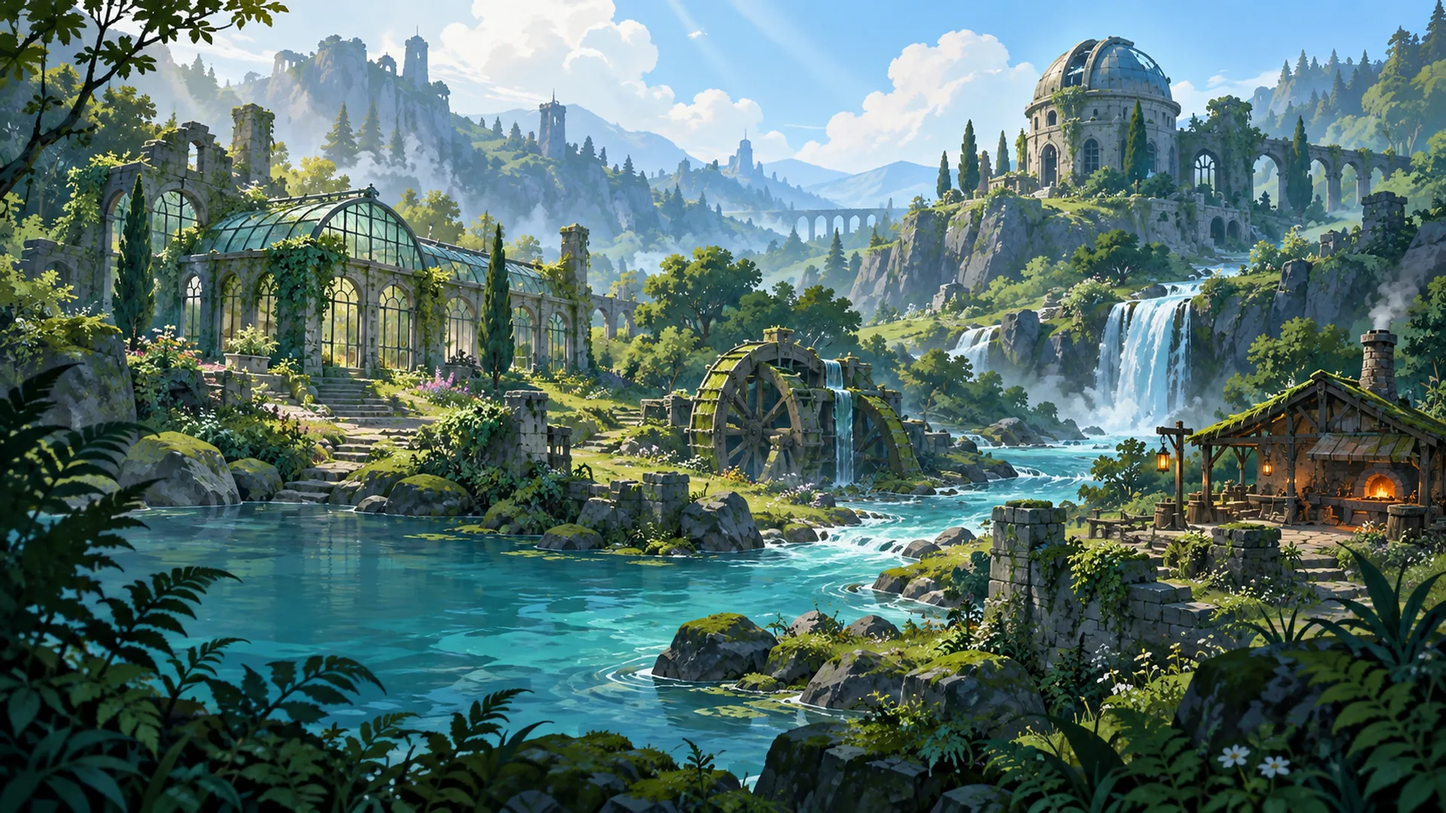
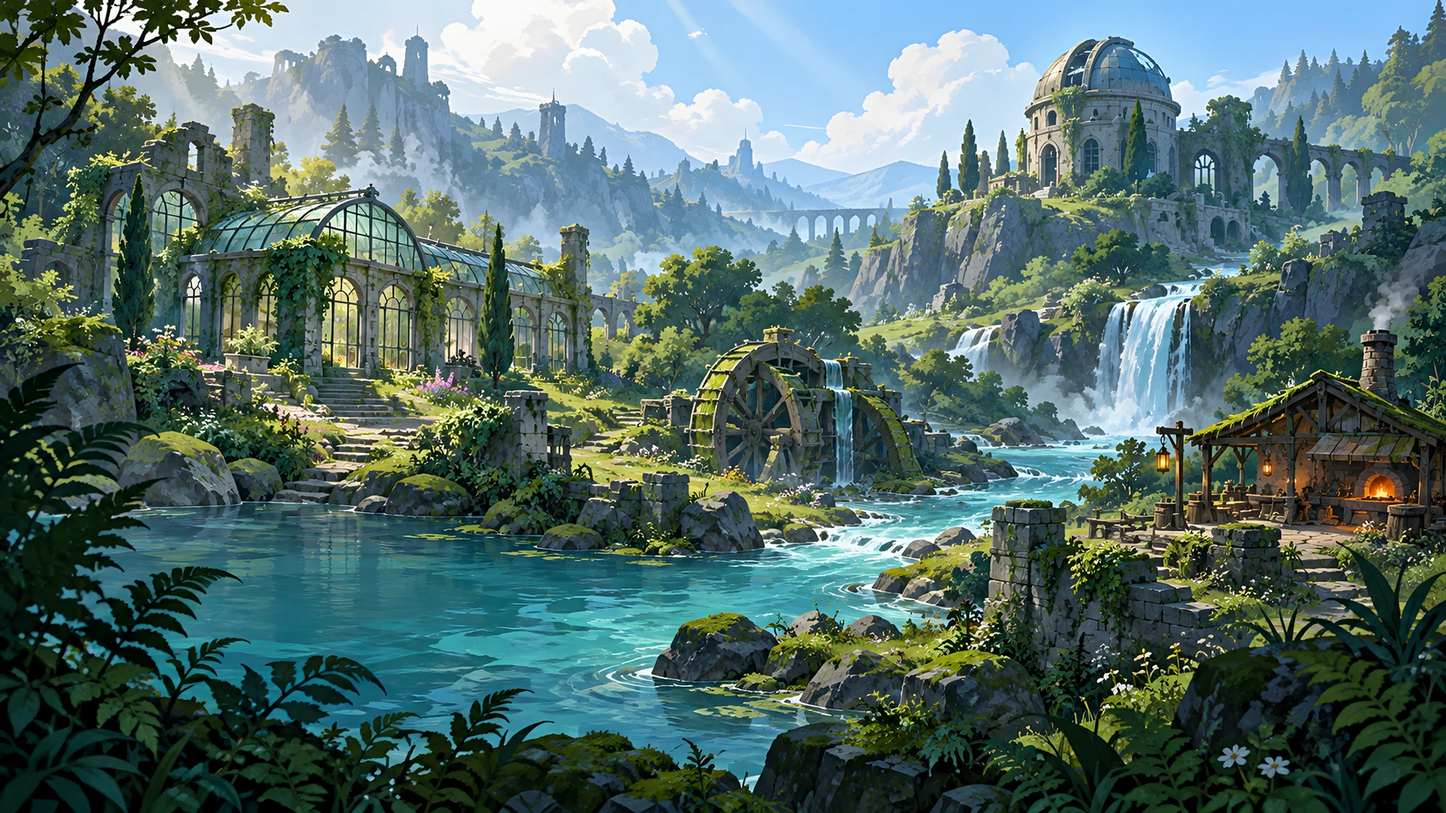
feat(wallpaper): serve the 8K dream-loop master as a 4K plate and render near device resolution
- base-4k.webp (3840x2160) and a sharper base.webp/base.jpg cut from the 7680x4320
  reconstruction master; the old plate was a 1672px generator image upscaled.
- Portrait phones and tall/high-DPI screens load the 4K plate; poster <source> and the
  player share one media query, so it downloads once.
- The plate is resampled to a power-of-two texture and mipmapped (WebGL1), so it no
  longer shimmers when minified.
- High quality renders at up to 2x DPR (2400px long side on phones, was 1280).
- Desktop veil a little darker behind the 45-70% band where the copy ends.

diff --git a/website/src/lib/wallpaper/livingPlayer.ts b/website/src/lib/wallpaper/livingPlayer.ts
@@ -223,6 +223,30 @@ export function generateRippleNormals(size = 256, seed = 7): Uint8Array {
 
 const isSmallScreen = () => typeof window !== 'undefined' && Math.min(window.innerWidth, window.innerHeight) <= 768;
 
+/**
+ * Screens that would upscale the 1920x1080 plate get the 4K plate (cut from the
+ * 7680x4320 master). Portrait phones crop the plate to a narrow column, so they need
+ * it most. Keep in sync with the poster's <source media> in index.html so the poster
+ * and the texture share one download.
+ */
+export const PLATE_4K_MEDIA = '(max-aspect-ratio: 1/1), (min-height: 1200px), (min-resolution: 1.5dppx) and (min-width: 1200px)';
+
+/**
+ * WebGL1 only mipmaps power-of-two textures, and an un-mipmapped 4K plate shimmers
+ * when minified. The plate is sampled by UV, so resampling it to a POT size changes
+ * no geometry; it just lets the GPU filter it properly at every canvas size.
+ */
+function potPlate(img: HTMLImageElement, maxSize: number): HTMLCanvasElement {
+  const pot = (n: number) => Math.min(maxSize, 2 ** Math.round(Math.log2(n)));
+  const c = document.createElement('canvas');
+  c.width = pot(img.naturalWidth);
+  c.height = pot(img.naturalHeight);
+  const ctx = c.getContext('2d')!;
+  ctx.imageSmoothingQuality = 'high';
+  ctx.drawImage(img, 0, 0, c.width, c.height);
+  return c;
+}
+
 export class LivingPlayer {
   readonly gl: GL;
   private opts: LivingPlayerOptions;
@@ -311,7 +335,8 @@ export class LivingPlayer {
     // 1. start the network fetches first, 2. queue shader compiles (parallel where the
     //    driver supports KHR_parallel_shader_compile), 3. only then block on results.
     const base = this.opts.assetBase.replace(/\/?$/, '/');
-    const images = Promise.all(['base.webp', 'masks.webp', 'flow.webp', 'depth.webp'].map((f) => loadImage(base + f)));
+    const plate = this.quality === 'high' && window.matchMedia(PLATE_4K_MEDIA).matches ? 'base-4k.webp' : 'base.webp';
+    const images = Promise.all([plate, 'masks.webp', 'flow.webp', 'depth.webp'].map((f) => loadImage(base + f)));
     gl.getExtension('KHR_parallel_shader_compile');
     const plateU = ['u_view', 'u_par', 'u_depth'];
     const pending = this.pendingPrograms = [
@@ -363,7 +388,10 @@ export class LivingPlayer {
       return t;
     };
     gl.pixelStorei(gl.UNPACK_COLORSPACE_CONVERSION_WEBGL, gl.BROWSER_DEFAULT_WEBGL);
-    this.texBase = upload(imgBase);
+    this.texBase = texture(gl);
+    gl.texImage2D(gl.TEXTURE_2D, 0, gl.RGB, gl.RGB, gl.UNSIGNED_BYTE, potPlate(imgBase, gl.getParameter(gl.MAX_TEXTURE_SIZE)));
+    gl.generateMipmap(gl.TEXTURE_2D);
+    gl.texParameteri(gl.TEXTURE_2D, gl.TEXTURE_MIN_FILTER, gl.LINEAR_MIPMAP_LINEAR);
     gl.pixelStorei(gl.UNPACK_COLORSPACE_CONVERSION_WEBGL, gl.NONE);
     this.texMasks = upload(imgMasks);
     this.texFlow = upload(imgFlow);
@@ -436,8 +464,10 @@ export class LivingPlayer {
     if (this.disposed || !this.ready) return;
     const canvas = this.opts.canvas;
     const small = isSmallScreen();
-    const maxDpr = this.quality === 'low' ? 1 : 1.5;
-    const maxDim = (this.quality === 'low' || small ? 1280 : 1920) * this.renderScale;
+    // High quality renders near device resolution (phones too); adaptive
+    // degradation lowers renderScale if the GPU can't keep up.
+    const maxDpr = this.quality === 'low' ? 1 : 2;
+    const maxDim = (this.quality === 'low' ? 1280 : small ? 2400 : 2560) * this.renderScale;
     const dpr = Math.min(window.devicePixelRatio || 1, maxDpr);
     let w = Math.max(1, Math.floor(canvas.clientWidth * dpr * this.renderScale));
     let h = Math.max(1, Math.floor(canvas.clientHeight * dpr * this.renderScale));

diff --git a/website/src/index.html b/website/src/index.html
@@ -163,7 +163,7 @@
         background:
           linear-gradient(180deg, rgba(6, 8, 10, 0.6) 0px, rgba(6, 8, 10, 0) 140px),
           linear-gradient(0deg, rgba(6, 8, 10, 0.6) 0%, rgba(6, 8, 10, 0.2) 16%, rgba(6, 8, 10, 0) 32%),
-          linear-gradient(90deg, rgba(6, 8, 10, 0.74) 0%, rgba(6, 8, 10, 0.66) 30%, rgba(6, 8, 10, 0.42) 45%, rgba(6, 8, 10, 0.16) 56%, rgba(6, 8, 10, 0.1) 100%);
+          linear-gradient(90deg, rgba(6, 8, 10, 0.74) 0%, rgba(6, 8, 10, 0.66) 30%, rgba(6, 8, 10, 0.5) 45%, rgba(6, 8, 10, 0.26) 56%, rgba(6, 8, 10, 0.1) 70%);
         transition: opacity 0.6s ease;
       }
     </style>
@@ -182,6 +182,8 @@
 </head>
   <body>
     <picture id="wallpaper-poster" aria-hidden="true">
+      <!-- media must match PLATE_4K_MEDIA in src/lib/wallpaper/livingPlayer.ts (shared download) -->
+      <source type="image/webp" media="(max-aspect-ratio: 1/1), (min-height: 1200px), (min-resolution: 1.5dppx) and (min-width: 1200px)" srcset="/wallpaper/living-ruins/base-4k.webp" />
       <source type="image/webp" srcset="/wallpaper/living-ruins/base.webp" />
       <img src="/wallpaper/living-ruins/base.jpg" alt="" width="1920" height="1080" fetchpriority="high" decoding="async" />
     </picture>

diff --git a/website/art/living-ruins/PROVENANCE.md b/website/art/living-ruins/PROVENANCE.md
@@ -5,8 +5,15 @@
   (`.design/concepts/concept-01-ruins-hud.png`, `concept-03-explorable-world.png`).
 - No Wallpaper Engine / Forgotten Ruins art, masks, textures or base images were used or copied. Only the
   abstract effect structure (layer types, passes, uniforms) informed the layer plan.
-- Generator output was 1672x941; `base.png` / `base.webp` are a Lanczos upscale to 1920x1080 of the chosen candidate
-  (`candidates/plate-01.png`). `base.jpg` is a 1280x720 LCP poster.
+- Generator output was 1672x941; `base.png` is a Lanczos upscale to 1920x1080 of the chosen candidate
+  (`candidates/plate-01.png`) and stays the source for the masks.
+- Runtime plates (2026-11-05) are cut from the 7680x4320 dream-loop reconstruction master
[1 lines of base64/hex data omitted]
+  tiles over a RealESRGAN geometry control; RealESRGAN x4plus, x4plus-anime and animevideov3 were trialled after it
+  and rejected). The master is kept outside git (39 MB, `/mnt/zer0models/tmp/living-ruins-sol-20261028/`).
+  Its fine detail is generated, not observed native 8K. Same composition as `base.png`, so the masks still register.
+  - `base-4k.webp` 3840x2160: portrait phones, tall or high-DPI screens (WebGL texture and poster).
+  - `base.webp` 1920x1080 and `base.jpg` 1920x1080: everything else, plus the og:image.
 - Masks in `masks/` are derived deterministically from the plate by
   `website/scripts/wallpaper/derive_masks.py` with the hand-authored flow polylines in `river.json`.
 
